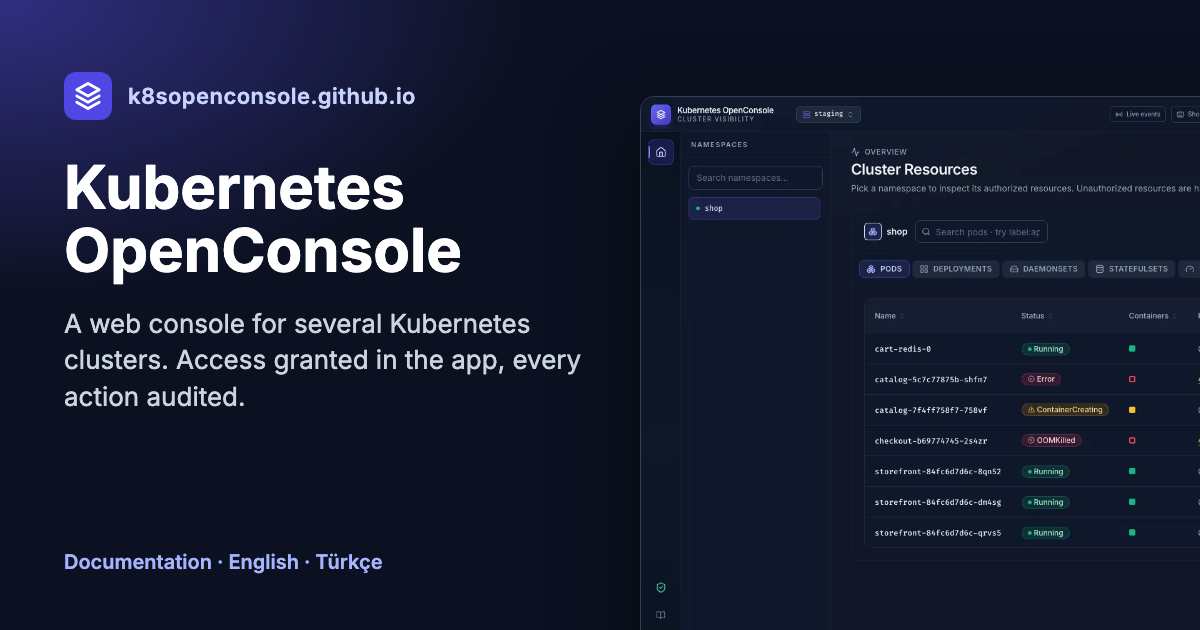
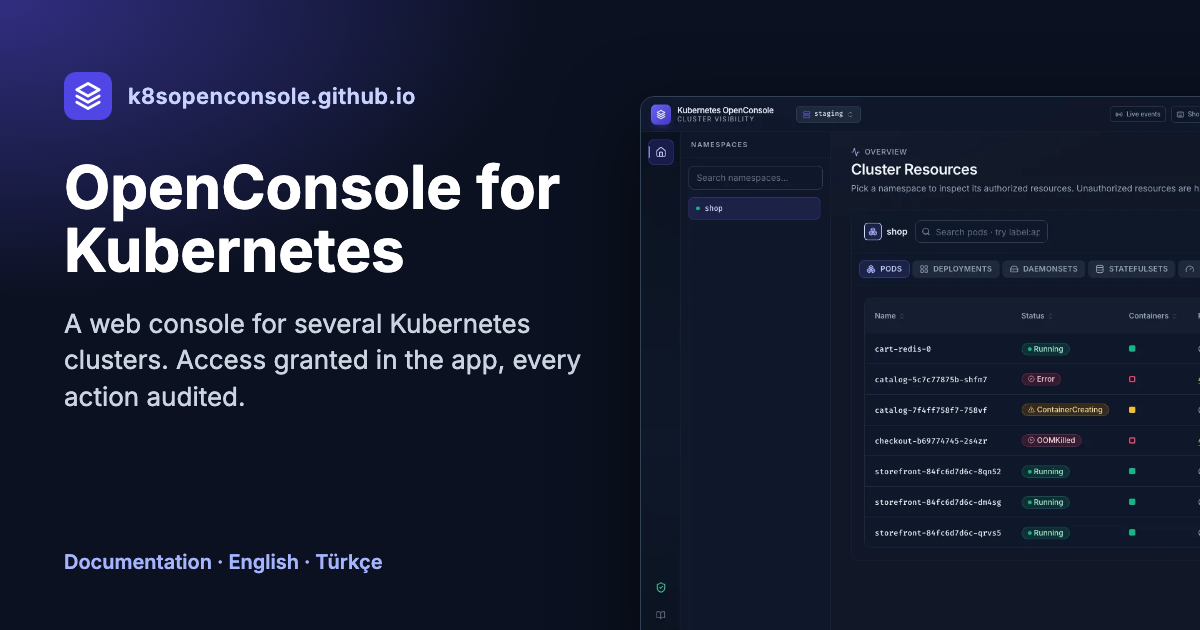
Product name: OpenConsole for Kubernetes; REST log cluster_forbidden (2.23.x) (#23)
* Product name: OpenConsole for Kubernetes

Site title, navbar, footer, home page, intro (Next + frozen 2.23, EN + TR), README,
release-notes and Open Graph images. Technical names (repo, image, namespace,
this site's address) stay. Screenshots and HAR fixtures follow at the release.

* API limits: REST log answers 403 cluster_forbidden when the cluster refuses (2.23.x)

---------

Changed region(s): [[0.0617, 0.2413, 0.4625, 0.4524]]

diff --git a/docusaurus.config.ts b/docusaurus.config.ts
@@ -33,7 +33,7 @@ const endpointDocs = (spec: string, outputDir: string): OpenApiPlugin.Options =>
 });
 
 const config: Config = {
-  title: 'Kubernetes OpenConsole',
+  title: 'OpenConsole for Kubernetes',
   tagline:
     'A web console for several Kubernetes clusters, with access granted in the app and every action audited.',
   favicon: 'img/favicon.svg',
@@ -154,7 +154,7 @@ const config: Config = {
     navbar: {
       title: 'OpenConsole',
       logo: {
-        alt: 'Kubernetes OpenConsole',
+        alt: 'OpenConsole for Kubernetes',
         src: 'img/logo.svg',
       },
       items: [
@@ -197,7 +197,7 @@ const config: Config = {
           ],
         },
       ],
-      copyright: `Kubernetes OpenConsole. Documentation CC BY 4.0, code Apache-2.0. Built with Docusaurus.`,
+      copyright: `OpenConsole for Kubernetes. Documentation CC BY 4.0, code Apache-2.0. Built with Docusaurus.`,
     },
     prism: {
       theme: prismThemes.github,

diff --git a/src/pages/index.tsx b/src/pages/index.tsx
@@ -51,14 +51,14 @@ export default function Home(): ReactNode {
     i18n.currentLocale === 'tr' ? `/img/screens/dashboard-pods.tr.${theme}.webp` : `/img/screenshot-${theme}.png`;
   return (
     <Layout
-      title="Kubernetes OpenConsole"
+      title="OpenConsole for Kubernetes"
       description={translate({
         id: 'home.description',
         message: 'A web console for several Kubernetes clusters, with access granted in the app and every action audited.',
       })}>
       <header className={styles.hero}>
         <div className="container">
-          <Heading as="h1" className={styles.title}>Kubernetes OpenConsole</Heading>
+          <Heading as="h1" className={styles.title}>OpenConsole for Kubernetes</Heading>
           <p className={styles.tagline}>
             {translate({
               id: 'home.tagline',

diff --git a/i18n/tr/docusaurus-plugin-content-docs/current/intro.md b/i18n/tr/docusaurus-plugin-content-docs/current/intro.md
@@ -1,12 +1,12 @@
 ---
 title: "Giriş"
 slug: /intro
-description: "Kubernetes OpenConsole nedir, kimin içindir, nasıl çalışır."
+description: "OpenConsole for Kubernetes nedir, kimin içindir, nasıl çalışır."
 ---
 
 # Giriş
 
-Kubernetes OpenConsole, birden çok Kubernetes cluster'ı için bir web konsoludur. Kullanıcılar yerel, LDAP ya da
+OpenConsole for Kubernetes, birden çok Kubernetes cluster'ı için bir web konsoludur. Kullanıcılar yerel, LDAP ya da
 Azure AD hesabıyla giriş yapar. Kendilerine verilen namespace'lerdeki iş yüklerini görür, rolleri izin veriyorsa
 bunlar üzerinde işlem de yaparlar: pod durumu ve logları, shell, restart ve ölçekleme, YAML düzenleme, Secret'lar.
 Her aksiyon ve her okuma audit'e yazılır. Script'ler ve AI agent'ları da aynı kurallara tabidir; kapsamı sınırlı

diff --git a/i18n/tr/docusaurus-plugin-content-docs/version-2.23/intro.md b/i18n/tr/docusaurus-plugin-content-docs/version-2.23/intro.md
@@ -1,12 +1,12 @@
 ---
 title: "Giriş"
 slug: /intro
-description: "Kubernetes OpenConsole nedir, kimin içindir, nasıl çalışır."
+description: "OpenConsole for Kubernetes nedir, kimin içindir, nasıl çalışır."
 ---
 
 # Giriş
 
-Kubernetes OpenConsole, birden çok Kubernetes cluster'ı için bir web konsoludur. Kullanıcılar yerel, LDAP ya da
+OpenConsole for Kubernetes, birden çok Kubernetes cluster'ı için bir web konsoludur. Kullanıcılar yerel, LDAP ya da
 Azure AD hesabıyla giriş yapar. Kendilerine verilen namespace'lerdeki iş yüklerini görür, rolleri izin veriyorsa
 bunlar üzerinde işlem de yaparlar: pod durumu ve logları, shell, restart ve ölçekleme, YAML düzenleme, Secret'lar.
 Her aksiyon ve her okuma audit'e yazılır. Script'ler ve AI agent'ları da aynı kurallara tabidir; kapsamı sınırlı

diff --git a/docs/intro.md b/docs/intro.md
@@ -1,12 +1,12 @@
 ---
 title: "Introduction"
 slug: /intro
-description: "What Kubernetes OpenConsole is, who it is for, and how it works."
+description: "What OpenConsole for Kubernetes is, who it is for, and how it works."
 ---
 
 # Introduction
 
-Kubernetes OpenConsole is a web console for several Kubernetes clusters. People sign in with a local, LDAP or
+OpenConsole for Kubernetes is a web console for several Kubernetes clusters. People sign in with a local, LDAP or
 Azure AD account and see, and if their role allows, operate the workloads of the namespaces they were given:
 pod status and logs, a shell, restart and scale, YAML edit, Secrets. Every action and every read is audited.
 Scripts and AI agents use the same rules through a REST API with scoped API keys.

diff --git a/versioned_docs/version-2.23/intro.md b/versioned_docs/version-2.23/intro.md
@@ -1,12 +1,12 @@
 ---
 title: "Introduction"
 slug: /intro
-description: "What Kubernetes OpenConsole is, who it is for, and how it works."
+description: "What OpenConsole for Kubernetes is, who it is for, and how it works."
 ---
 
 # Introduction
 
-Kubernetes OpenConsole is a web console for several Kubernetes clusters. People sign in with a local, LDAP or
+OpenConsole for Kubernetes is a web console for several Kubernetes clusters. People sign in with a local, LDAP or
 Azure AD account and see, and if their role allows, operate the workloads of the namespaces they were given:
 pod status and logs, a shell, restart and scale, YAML edit, Secrets. Every action and every read is audited.
 Scripts and AI agents use the same rules through a REST API with scoped API keys.

diff --git a/i18n/tr/docusaurus-plugin-content-docs/current/api/limits.md b/i18n/tr/docusaurus-plugin-content-docs/current/api/limits.md
@@ -31,7 +31,8 @@ Durumdan sonra gelen kod, gövdenin `error` alanıdır; gövde [Hatalar](/api/qu
 
 Yanıt en fazla **5 MiB** düz metindir. Daha uzun bir log satır sonunda kesilir ve yanıt
 `X-OpenConsole-Truncated: true` başlığını taşır: daha az satır ya da daha kısa bir `sinceSeconds` isteyin. Hatalar: 404
-`pod_not_found`; 400 `container_not_found`, `not_ready` (container henüz başlamadı) ya da `previous_unavailable`.
+`pod_not_found`; 400 `container_not_found`, `not_ready` (container henüz başlamadı) ya da `previous_unavailable`; 403
+`cluster_forbidden`: OpenConsole'un cluster'daki kendi hesabı pod'u ya da logunu okuyamıyor (ClusterRole'ü).
 
 ## Komut çalıştırma: `POST …/pods/{name}/exec` {#running-a-command-post-podsnameexec}
 

diff --git a/docs/api/limits.md b/docs/api/limits.md
@@ -31,7 +31,8 @@ variables are on [Environment variables](/reference/environment-variables).
 
 The answer is plain text of at most **5 MiB**. A longer log is cut at a line end and the response carries
 `X-OpenConsole-Truncated: true`: ask for fewer lines or a shorter `sinceSeconds`. Errors: 404 `pod_not_found`;
-400 `container_not_found`, `not_ready` (the container hasn't started) or `previous_unavailable`.
+400 `container_not_found`, `not_ready` (the container hasn't started) or `previous_unavailable`; 403
+`cluster_forbidden` when OpenConsole's own account on the cluster may not read the pod or its log (its ClusterRole).
 
 ## Running a command: `POST …/pods/{name}/exec` {#running-a-command-post-podsnameexec}
 

diff --git a/CLAUDE.md b/CLAUDE.md
@@ -2,6 +2,8 @@
 
 Docusaurus 3 site for [vurulkan/kubernetes-openconsole](https://github.com/vurulkan/kubernetes-openconsole) (the
 code repo; its `CLAUDE.md` maps the code). Served at `https://k8sopenconsole.github.io/` from GitHub Pages.
+The product is **OpenConsole for Kubernetes** (short: OpenConsole) in EN and TR, never "Kubernetes OpenConsole"
+(Linux Foundation marks); the old name stays only in technical identifiers (repo, image, namespace, this site's address).
 
 ## Map
 

diff --git a/README.md b/README.md
@@ -1,6 +1,6 @@
-# Kubernetes OpenConsole documentation
+# OpenConsole for Kubernetes documentation
 
-Source of the documentation site for [Kubernetes OpenConsole](https://github.com/vurulkan/kubernetes-openconsole),
+Source of the documentation site for [OpenConsole for Kubernetes](https://github.com/vurulkan/kubernetes-openconsole),
 published at **https://k8sopenconsole.github.io/** in English and Turkish. Built with [Docusaurus 3](https://docusaurus.io/).
 
 ```bash
